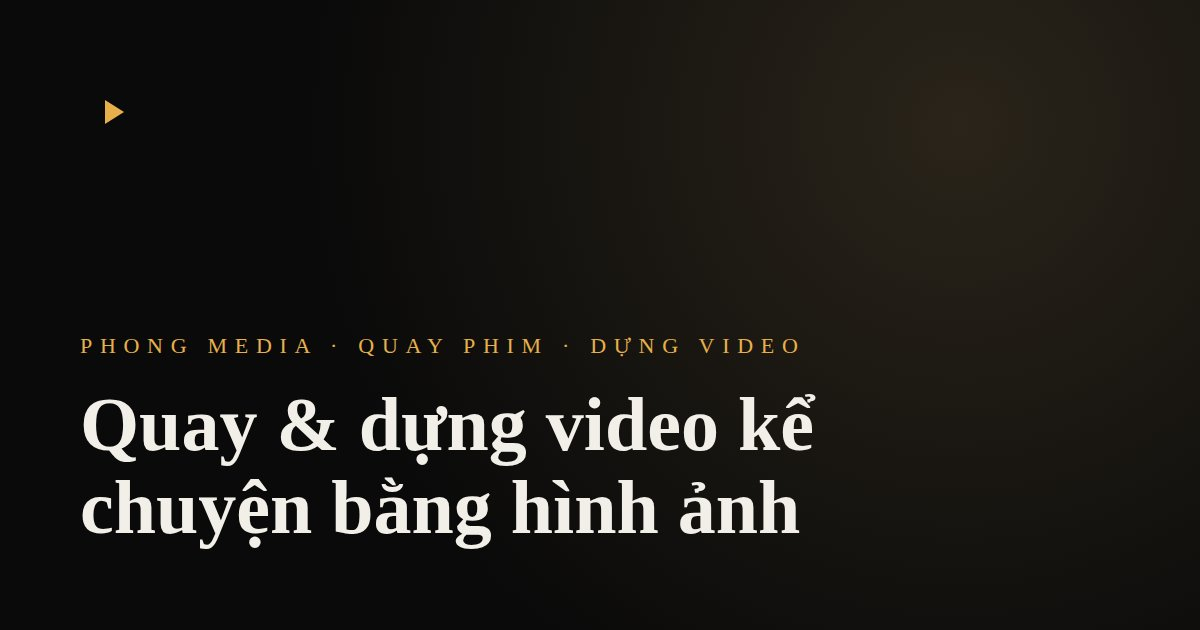
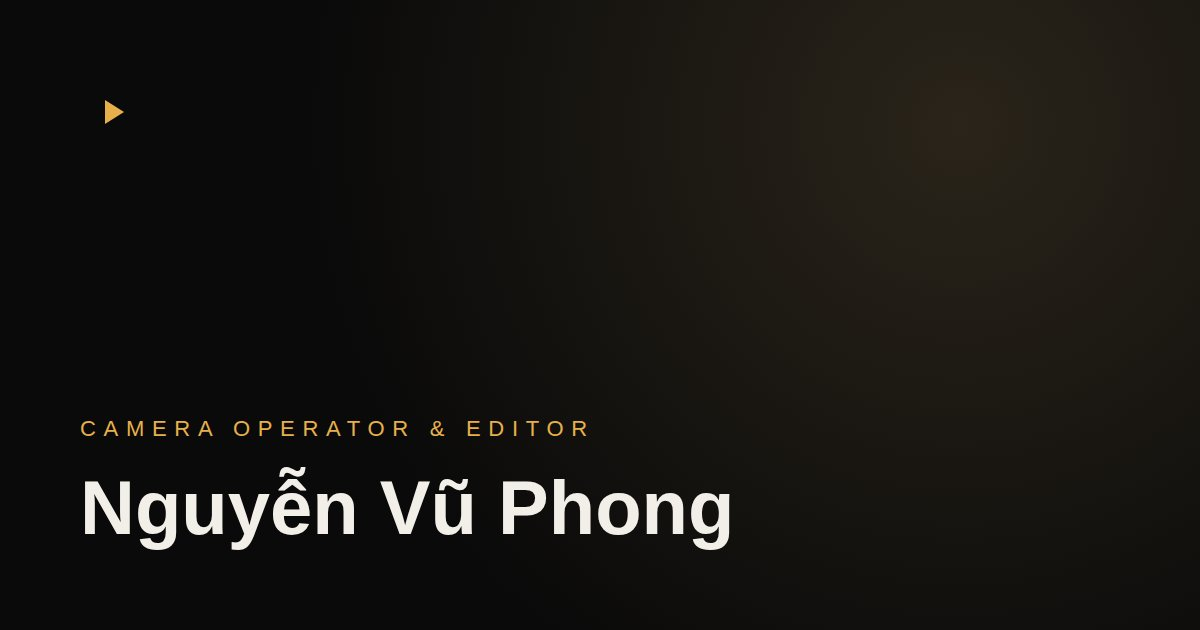
Use real name, role, phone and Facebook link
Hide Instagram/TikTok and location until provided; regenerate OG image.

Claude-Session: https://claude.ai/code/session_01Cqz6T4XV5Wa8wFgcwmSnt5

diff --git a/src/data/site.ts b/src/data/site.ts
@@ -4,10 +4,10 @@
 // ============================================================
 
 export const site = {
-  name: 'Phong Media', // MẪU: tên / thương hiệu
+  name: 'Nguyễn Vũ Phong',
+  role: 'Camera Operator & Editor',
   tagline: 'Quay & dựng video kể chuyện bằng hình ảnh', // MẪU: slogan
-  description:
-    'Portfolio quay phim, dựng video: TVC, MV, video sự kiện và phim cưới.', // MẪU: mô tả khi share link
+  description: 'Nguyễn Vũ Phong — Camera Operator & Editor. Portfolio quay phim, dựng video.',
 
   // Video nền ở đầu trang: đặt file vào thư mục public/ rồi ghi đường dẫn, vd '/hero.mp4'.
   // Để trống ('') thì dùng ảnh thumbnail của showreel làm nền.
@@ -18,23 +18,23 @@ export const site = {
   showreelYoutubeId: 'aqz-KE-bpKQ', // MẪU
 
   contact: {
-    phone: '0900000000', // MẪU: số điện thoại, cũng dùng cho Zalo
+    phone: '0824890655', // cũng dùng cho Zalo
     email: '', // không bắt buộc
-    location: 'TP. Hồ Chí Minh', // MẪU
+    location: '', // vd 'TP. Hồ Chí Minh'
   },
 
   // Để trống ('') mạng nào không dùng thì icon đó sẽ tự ẩn
   social: {
-    facebook: 'https://facebook.com/', // MẪU
-    instagram: 'https://instagram.com/', // MẪU
-    tiktok: 'https://tiktok.com/', // MẪU
+    facebook: 'https://www.facebook.com/share/1DtesZTzD9/?mibextid=wwXIfr',
+    instagram: '',
+    tiktok: '',
     youtube: '',
   },
 
   about: {
     photo: '', // vd '/chan-dung.jpg' (đặt file trong public/)
     bio: [
-      'Mình là Phong, quay phim và dựng video tự do với hơn 5 năm kinh nghiệm.', // MẪU
+      'Mình là Nguyễn Vũ Phong, camera operator và editor — quay phim và dựng video.', // MẪU
       'Mình làm TVC cho thương hiệu, MV ca nhạc, video sự kiện và phim cưới — từ lên kịch bản, quay, dựng đến chỉnh màu.', // MẪU
     ],
     gear: ['Sony FX3', 'DJI Ronin RS3', 'DJI Mini 4 Pro', 'DaVinci Resolve', 'Premiere Pro'], // MẪU
